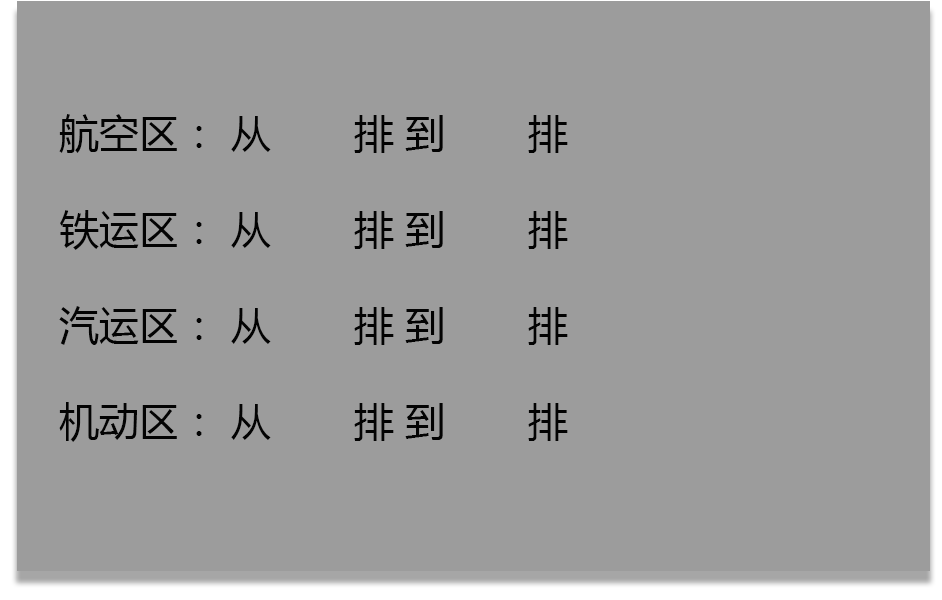
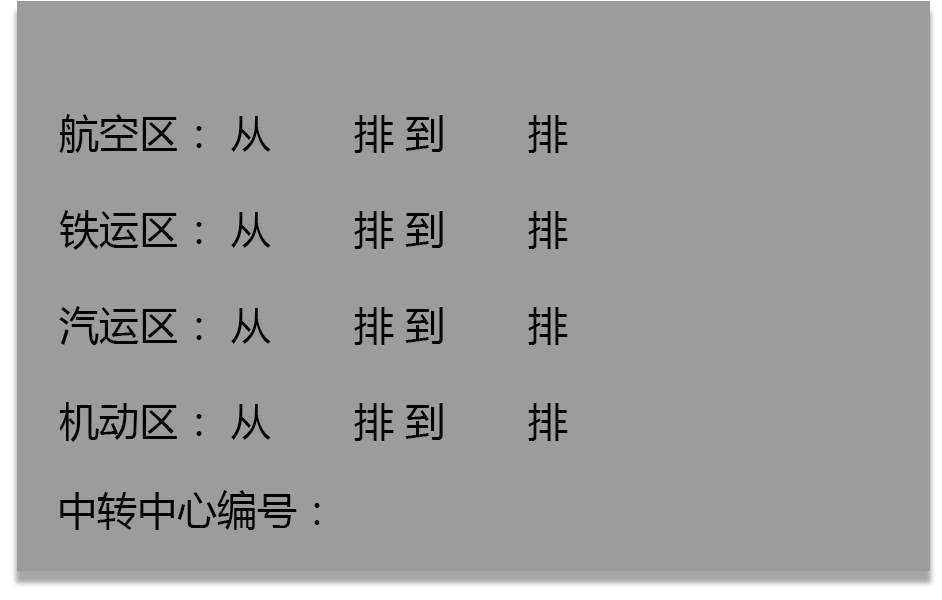
库存初始化和调整分区写完了

Changed region(s): [[0.0616, 0.81, 0.3386, 0.9]]

diff --git a/LogisticManageSystem/Client/src/main/java/edu/nju/lms/presentation/mouseListener/SaveWareInitialListener.java b/LogisticManageSystem/Client/src/main/java/edu/nju/lms/presentation/mouseListener/SaveWareInitialListener.java
@@ -4,23 +4,61 @@ import java.awt.Component;
 import java.awt.event.MouseEvent;
 import java.util.ArrayList;
 
+import javax.swing.JTextField;
+
+import edu.nju.lms.VO.PartitionVO;
+import edu.nju.lms.businessLogicService.impl.warehouse.WarehouseController;
+import edu.nju.lms.data.Partition;
+import edu.nju.lms.data.PartitionType;
+import edu.nju.lms.data.ResultMessage;
 import edu.nju.lms.presentation.UIController;
+import edu.nju.lms.presentation.components.MyDialog;
 
 /**
  *@author tj
  *@date 2015年12月7日
  */
 public class SaveWareInitialListener extends ButtonListener {
-
+	private WarehouseController control;
 	public SaveWareInitialListener(ArrayList<Component> units, UIController controller, Component button) {
 		super(units, controller, button);
-		// TODO Auto-generated constructor stub
+		this.control = controller.getWarehouseController();
 	}
 
 	@Override
 	public void mouseReleased(MouseEvent e) {
-		// TODO Auto-generated method stub
-
+		JTextField cordon = (JTextField)units.get(0);
+		if(!Numeric.isNumeric(cordon.getText())){
+			new MyDialog("请输入合法数字",true);
+			return;
+		}
+		double cordonLine = Double.parseDouble(cordon.getText());
+		JTextField warehouseNum = (JTextField)units.get(1);
+		ArrayList<Partition> partitions = new ArrayList<Partition>();
+		for(int i =2;i<6;i++){
+			JTextField start = (JTextField)units.get(i);
+			JTextField end = (JTextField)units.get(i+1);
+			if(!Numeric.isNumeric(start.getText())||!Numeric.isNumeric(end.getText())){
+				new MyDialog("请输入合法数字",true);
+				return;
+			}
+			int startIndex = Integer.parseInt(start.getText());
+			int endIndex = Integer.parseInt(end.getText());
+			int capacity = endIndex - startIndex;
+			if(capacity<0){
+				new MyDialog("请输入合法数字",true);
+				return;
+			}
+			Partition partition = new Partition(capacity,startIndex,endIndex,PartitionType.values()[i-2]);
+			partitions.add(partition);
+		}
+		PartitionVO vo = new PartitionVO(partitions);
+		ResultMessage result = control.initialize(vo, cordonLine, warehouseNum.getText());
+		if(result.isSuccess()){
+			new MyDialog("初始化成功",true);
+		}else{
+			new MyDialog(result.getErrorMessage(),true);
+		}
 	}
 
 }

diff --git a/LogisticManageSystem/Client/src/main/java/edu/nju/lms/presentation/mouseListener/SavePartitionListener.java b/LogisticManageSystem/Client/src/main/java/edu/nju/lms/presentation/mouseListener/SavePartitionListener.java
@@ -4,23 +4,55 @@ import java.awt.Component;
 import java.awt.event.MouseEvent;
 import java.util.ArrayList;
 
+import javax.swing.JTextField;
+
+import edu.nju.lms.VO.PartitionVO;
+import edu.nju.lms.businessLogicService.impl.warehouse.WarehouseController;
+import edu.nju.lms.data.Partition;
+import edu.nju.lms.data.PartitionType;
+import edu.nju.lms.data.ResultMessage;
 import edu.nju.lms.presentation.UIController;
+import edu.nju.lms.presentation.components.MyDialog;
 
 /**
  *@author tj
  *@date 2015年12月7日
  */
 public class SavePartitionListener extends ButtonListener {
-
+	private WarehouseController control;
 	public SavePartitionListener(ArrayList<Component> units, UIController controller, Component button) {
 		super(units, controller, button);
-		// TODO Auto-generated constructor stub
+		this.control = controller.getWarehouseController();
 	}
 
 	@Override
 	public void mouseReleased(MouseEvent e) {
-		// TODO Auto-generated method stub
-
+		JTextField warehouseNum = (JTextField)units.get(8);
+		ArrayList<Partition> partitions = new ArrayList<Partition>();
+		for(int i =0;i<4;i++){
+			JTextField start = (JTextField)units.get(i);
+			JTextField end = (JTextField)units.get(i+1);
+			if(!Numeric.isNumeric(start.getText())||!Numeric.isNumeric(end.getText())){
+				new MyDialog("请输入合法数字",true);
+				return;
+			}
+			int startIndex = Integer.parseInt(start.getText());
+			int endIndex = Integer.parseInt(end.getText());
+			int capacity = endIndex - startIndex;
+			if(capacity<0){
+				new MyDialog("请输入合法数字",true);
+				return;
+			}
+			Partition partition = new Partition(capacity,startIndex,endIndex,PartitionType.values()[i-2]);
+			partitions.add(partition);
+		}
+		PartitionVO vo = new PartitionVO(partitions);
+		ResultMessage result = control.modifyPartition(vo, warehouseNum.getText());
+		if(result.isSuccess()){
+			new MyDialog("初始化成功",true);
+		}else{
+			new MyDialog(result.getErrorMessage(),true);
+		}
 	}
 
 }

diff --git a/LogisticManageSystem/Client/src/main/java/edu/nju/lms/presentation/mouseListener/SignInButtonListener.java b/LogisticManageSystem/Client/src/main/java/edu/nju/lms/presentation/mouseListener/SignInButtonListener.java
@@ -35,7 +35,7 @@ public class SignInButtonListener extends ButtonListener {
 		password = p.getText();
 		n.setText("");
 		p.setText("");
-		controller.changeTo("AdministratorPanel");
+		controller.changeTo("warehousePanel");
 		controller.initialize(PersonType.WAREHOUSE);
 //		if (name != "" && password != "") {
 //			if(userController==null){

diff --git a/LogisticManageSystem/Client/src/main/java/edu/nju/lms/presentation/mouseListener/ShowWarningListener.java b/LogisticManageSystem/Client/src/main/java/edu/nju/lms/presentation/mouseListener/ShowWarningListener.java
@@ -27,7 +27,9 @@ public class ShowWarningListener extends ButtonListener {
 		if(warehouseNum.isEmpty()){
 			return;
 		}
-		
+		String warning = control.getCordon(warehouseNum)+"";
+		JTextField wa = (JTextField)units.get(1);
+		wa.setText(warning);
 	}
 
 }
